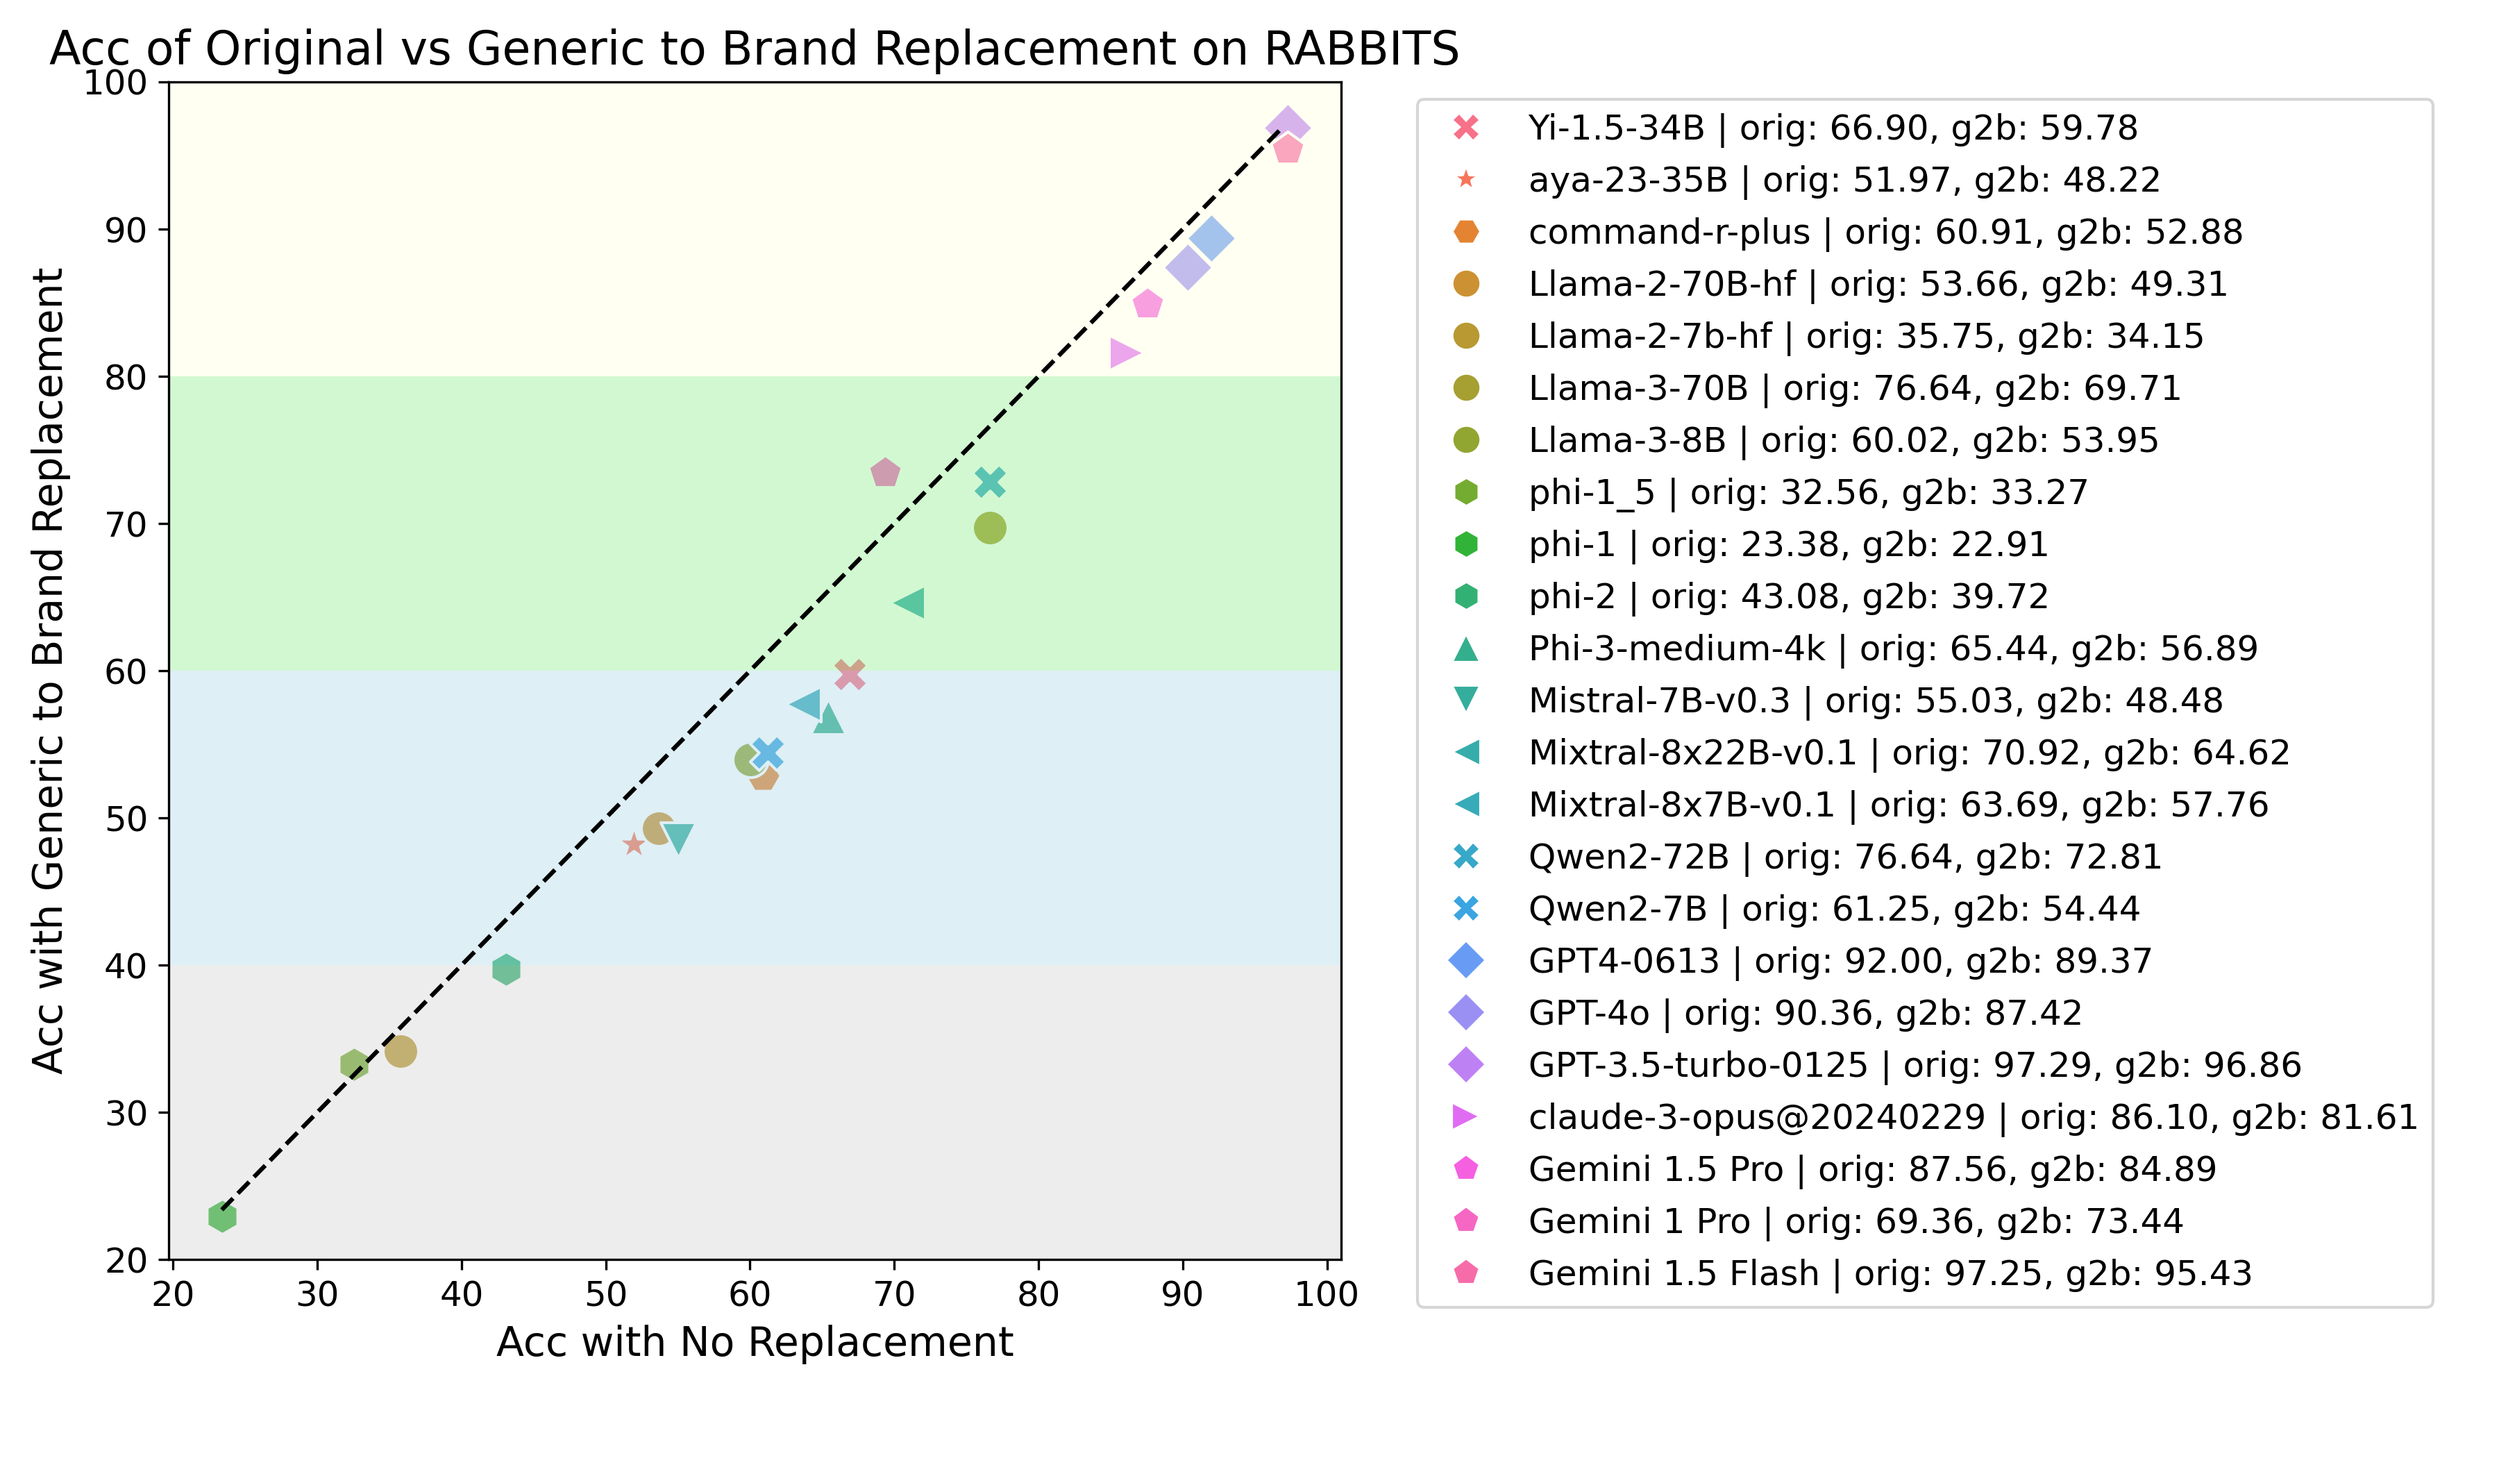
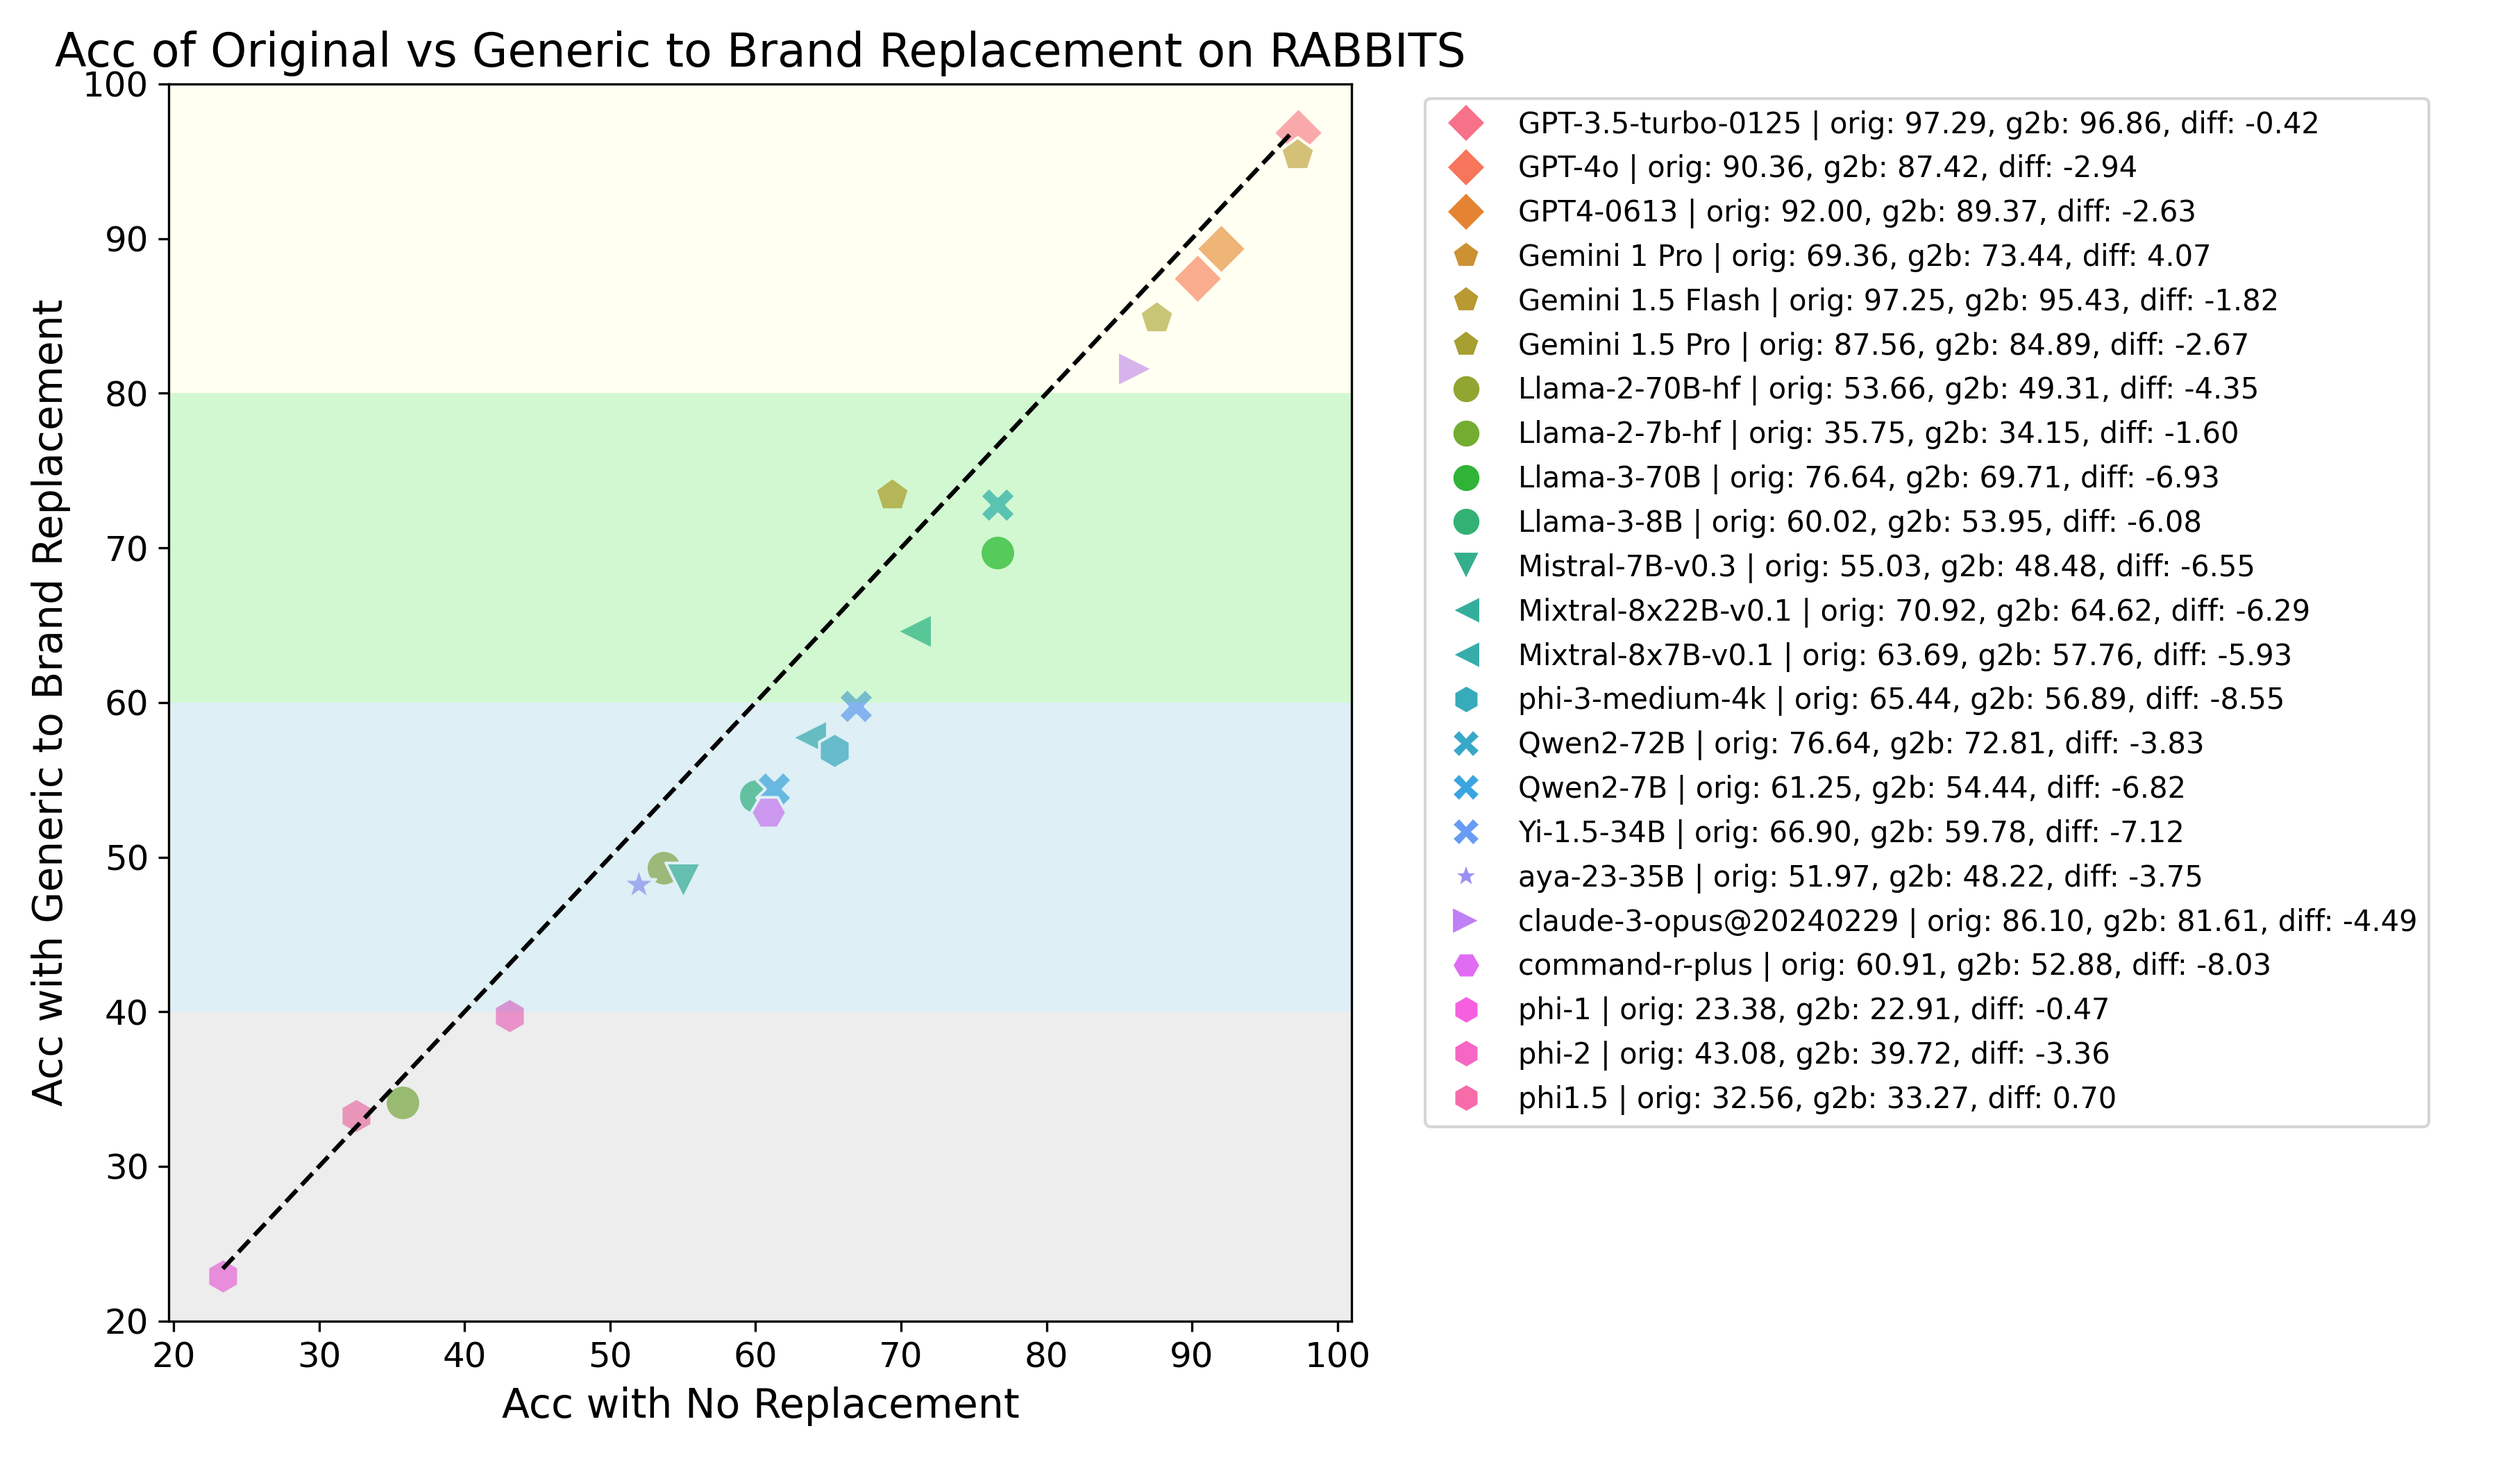
add plot with diff

diff --git a/src/create_plots.py b/src/create_plots.py
@@ -4,8 +4,8 @@ import seaborn as sns
 
 
 def plot_b4bqa_bar_graph(data):
-    # Drop rows with missing values in b4bqa
-    data_clean = data.dropna(subset=["b4bqa"])
+    # Drop rows with missing values
+    data_clean = data.dropna()
 
     # Sort data by model size
     sorted_data = data_clean.sort_values(by="size")
@@ -36,85 +36,16 @@ def plot_b4bqa_bar_graph(data):
 
 
 def plot_avg_orig_vs_avg_g2b_with_larger_fonts(data):
-    # Drop rows with missing values in avg_orig or avg_g2b
-    data_clean = data.dropna(subset=["avg_orig", "avg_g2b"])
 
-    # Create the scatter plot
-    plt.figure(figsize=(12, 7))
-    scatter = sns.scatterplot(
-        x="avg_orig",
-        y="avg_g2b",
-        hue="Model",
-        style="Model",
-        s=100,
-        palette=pal,  # pal,
-        data=data_clean,
-    )
+    # Rename columns to match the function expectations
+    data = data.rename(columns={"Original": "avg_orig", "g2b": "avg_g2b"})
 
-    # Adding grid and diagonal line
-    # plt.grid(True)
-    plt.plot(
-        [data_clean["avg_orig"].min(), data_clean["avg_orig"].max()],
-        [data_clean["avg_orig"].min(), data_clean["avg_orig"].max()],
-        "k--",
-    )
-
-    # Labeling the axes with larger font size
-    plt.xlabel("Acc with No Replacement", fontsize=14)
-    plt.ylabel("Acc with Generic to Brand Replacement", fontsize=14)
-
-    # Adding title with larger font size
-    plt.title("Acc of Original vs Generic to Brand Replacement on RABBITS", fontsize=16)
-
-    # Create custom legend with larger font size
-    handles, labels = scatter.get_legend_handles_labels()
-    new_labels = []
-    for i, label in enumerate(labels[1:]):
-        model_name = label.split(" | ")[0]
-        avg_orig_value = data_clean[data_clean["Model"] == model_name][
-            "avg_orig"
-        ].values[0]
-        avg_g2b_value = data_clean[data_clean["Model"] == model_name]["avg_g2b"].values[
-            0
-        ]
-        new_labels.append(
-            f"{model_name} | orig: {avg_orig_value:.2f}, g2b: {avg_g2b_value:.2f}"
-        )
-
-    # Removing the original legend
-    scatter.legend_.remove()
-
-    # Adding the new custom legend
-    plt.legend(
-        handles=handles[1:],
-        labels=new_labels,
-        bbox_to_anchor=(1.05, 1),
-        loc="upper left",
-        fontsize=12,
-        title_fontsize="13",
-    )
-
-    # Adding background shading
-    plt.axhspan(20, 40, facecolor="lightgrey", alpha=0.5)
-    plt.axhspan(40, 60, facecolor="lightblue", alpha=0.5)
-    plt.axhspan(60, 80, facecolor="lightgreen", alpha=0.5)
-    plt.axhspan(80, 100, facecolor="lightyellow", alpha=0.5)
-
-    # Show the plot with larger tick labels
-    plt.xticks(fontsize=12)
-    plt.yticks(fontsize=12)
-    plt.ylim(20, 100)
-    plt.tight_layout()
-    # plt.show()
-
-
-def plot_avg_orig_vs_avg_g2b_with_larger_fonts(data):
     # Drop rows with missing values in avg_orig or avg_g2b
     data_clean = data.dropna(subset=["avg_orig", "avg_g2b"])
 
     # Define a diverse color palette and ensure it has enough colors
     unique_models = data_clean["Model"].unique()
-    palette = sns.color_palette("husl", 23)
+    palette = sns.color_palette("husl", len(unique_models))
 
     # Define marker styles for different groups
     model_shapes = {
@@ -192,7 +123,7 @@ def plot_avg_orig_vs_avg_g2b_with_larger_fonts(data):
             )
         )
         labels.append(
-            f"{row['Model']} | orig: {row['avg_orig']:.2f}, g2b: {row['avg_g2b']:.2f}"
+            f"{row['Model']} | orig: {row['avg_orig']:.2f}, g2b: {row['avg_g2b']:.2f}, diff: {row['Difference']:.2f}"
         )
 
     plt.legend(
@@ -200,8 +131,8 @@ def plot_avg_orig_vs_avg_g2b_with_larger_fonts(data):
         labels,
         bbox_to_anchor=(1.05, 1),
         loc="upper left",
-        fontsize=12,
-        title_fontsize="13",
+        fontsize=10,  # Reduced font size to fit longer legend
+        title_fontsize="12",
     )
 
     # Adjusting the background shading to be less obtrusive
@@ -215,7 +146,7 @@ def plot_avg_orig_vs_avg_g2b_with_larger_fonts(data):
     plt.yticks(fontsize=12)
     plt.ylim(20, 100)
     plt.tight_layout()
-    plt.savefig("b4b_tight.png", dpi=300)
+    plt.savefig("rabbits_plot.png", dpi=300)
 
 
 def plot_side_by_side_medqa_medmcqa_diff(data):
@@ -254,10 +185,8 @@ def plot_side_by_side_medqa_medmcqa_diff(data):
     # plt.show()
 
 
-# export figure in high resolution
-plt.savefig("accuracy_difference_generic_to_brand.png", dpi=300)
 if __name__ == "__main__":
-    data = pd.read_csv("../results/rabbits_results - Sheet1.csv")
+    data = pd.read_csv("results/rabbit_results.csv")
 
     # rename model row phi-1_5 to phi1.5
     data["Model"] = data["Model"].replace("phi-1_5", "phi1.5")
@@ -266,74 +195,73 @@ if __name__ == "__main__":
     pal = sns.color_palette("viridis", len(data["Model"]))  # viridis
 
     # Scaling law
-    plot_b4bqa_bar_graph(data)
-    plt.savefig("b4bqa.png", dpi=300)
+    # plot_b4bqa_bar_graph(data)
+    # plt.savefig("b4bqa.png", dpi=300)
 
     # Main comparison plot
     plot_avg_orig_vs_avg_g2b_with_larger_fonts(data)
-    plt.savefig("b4b_tight.png", dpi=300)
 
-    # Side by side dataset
-    plot_side_by_side_medqa_medmcqa_diff(data)
-    plt.savefig("accuracy_difference_generic_to_brand.png", dpi=300)
+    # # Side by side dataset
+    # plot_side_by_side_medqa_medmcqa_diff(data)
+    # plt.savefig("accuracy_difference_generic_to_brand.png", dpi=300)
 
-    # generate latex table
-    new_table_data = []
-    column_mapping = {"medmcqa_g2b": "g2b", "medmcqa_orig_filtered": "original"}
+    # # generate latex table
+    # new_table_data = []
+    # column_mapping = {"medmcqa_g2b": "g2b", "medmcqa_orig_filtered": "original"}
 
-    for _, row in data.iterrows():
-        new_table_data.append(
-            {
-                "Dataset": "medmcqa",
-                "Model": row["Model"],
-                "g2b": row["medmcqa_g2b"],
-                "original": row["medmcqa_orig_filtered"],
-            }
-        )
-        new_table_data.append(
-            {
-                "Dataset": "medqa 4options",
-                "Model": row["Model"],
-                "g2b": row["medqa_4options_g2b"],
-                "original": row["medqa_4options_orig_filtered"],
-            }
-        )
+    # for _, row in data.iterrows():
+    #     new_table_data.append(
+    #         {
+    #             "Dataset": "medmcqa",
+    #             "Model": row["Model"],
+    #             "g2b": row["medmcqa_g2b"],
+    #             "original": row["medmcqa_orig_filtered"],
+    #         }
+    #     )
+    #     new_table_data.append(
+    #         {
+    #             "Dataset": "medqa 4options",
+    #             "Model": row["Model"],
+    #             "g2b": row["medqa_4options_g2b"],
+    #             "original": row["medqa_4options_orig_filtered"],
+    #         }
+    #     )
 
-    new_table_df = pd.DataFrame(new_table_data)
+    # new_table_df = pd.DataFrame(new_table_data)
 
-    # Sorting the dataframe for better readability
-    new_table_df = new_table_df.sort_values(by=["Dataset", "Model"])
+    # # Sorting the dataframe for better readability
+    # new_table_df = new_table_df.sort_values(by=["Dataset", "Model"])
 
-    # Print the dataframe in LaTeX tabular format
-    latex_table = new_table_df.to_latex(index=False, float_format="%.2f")
-    latex_table
+    # # Print the dataframe in LaTeX tabular format
+    # latex_table = new_table_df.to_latex(index=False, float_format="%.2f")
+    # latex_table
 
-    ## Summary version
-    # Creating the new summary table dataframe
-    summary_table_data = []
+    # ## Summary version
+    # # Creating the new summary table dataframe
+    # summary_table_data = []
 
-    for _, row in data.iterrows():
-        if (
-            pd.notna(row["avg_orig"])
-            and pd.notna(row["avg_g2b"])
-            and pd.notna(row["avg_diff"])
-        ):
-            summary_table_data.append(
-                {
-                    "Model": row["Model"],
-                    "Original": row["avg_orig"],
-                    "g2b": row["avg_g2b"],
-                    "Average": (row["avg_orig"] + row["avg_g2b"]) / 2,
-                    "Difference": row["avg_diff"],
-                }
-            )
+    # for _, row in data.iterrows():
+    #     if (
+    #         pd.notna(row["avg_orig"])
+    #         and pd.notna(row["avg_g2b"])
+    #         and pd.notna(row["avg_diff"])
+    #     ):
+    #         summary_table_data.append(
+    #             {
+    #                 "Model": row["Model"],
+    #                 "Original": row["avg_orig"],
+    #                 "g2b": row["avg_g2b"],
+    #                 "Average": (row["avg_orig"] + row["avg_g2b"]) / 2,
+    #                 "Difference": row["avg_diff"],
+    #             }
+    #         )
 
-    summary_table_df = pd.DataFrame(summary_table_data)
+    # summary_table_df = pd.DataFrame(summary_table_data)
 
-    # Sorting the dataframe for better readability
-    summary_table_df = summary_table_df.sort_values(by=["Model"])
+    # # Sorting the dataframe for better readability
+    # summary_table_df = summary_table_df.sort_values(by=["Model"])
 
-    # Print the dataframe in LaTeX tabular format
-    summary_latex_table = summary_table_df.to_latex(index=False, float_format="%.2f")
+    # # Print the dataframe in LaTeX tabular format
+    # summary_latex_table = summary_table_df.to_latex(index=False, float_format="%.2f")
 
-    print(summary_latex_table)
+    # print(summary_latex_table)

diff --git a/README.md b/README.md
@@ -105,6 +105,7 @@ This contains the following tasks:
   - medmcqa_g2b
   - medqa_4options_g2b
 
+The main results in can be found in `rabbit_results.csv` to reproduce the main paper figure.
 
 # Citing
 ```
